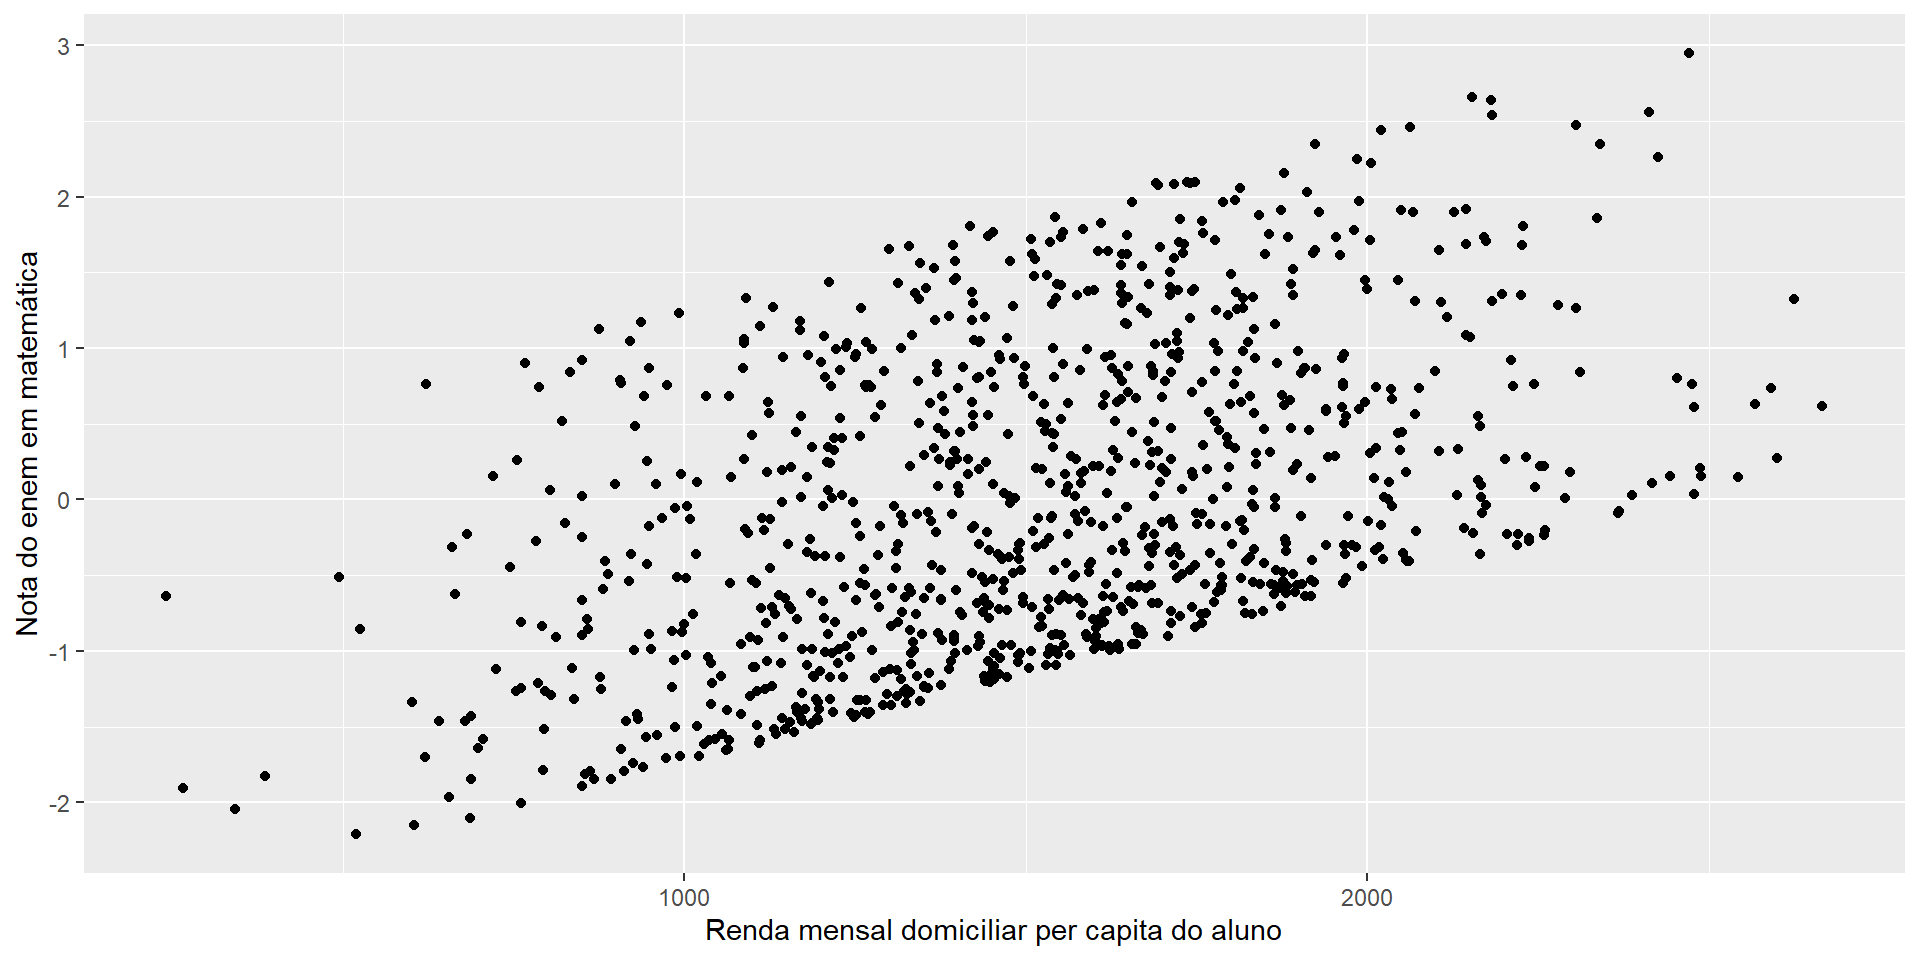
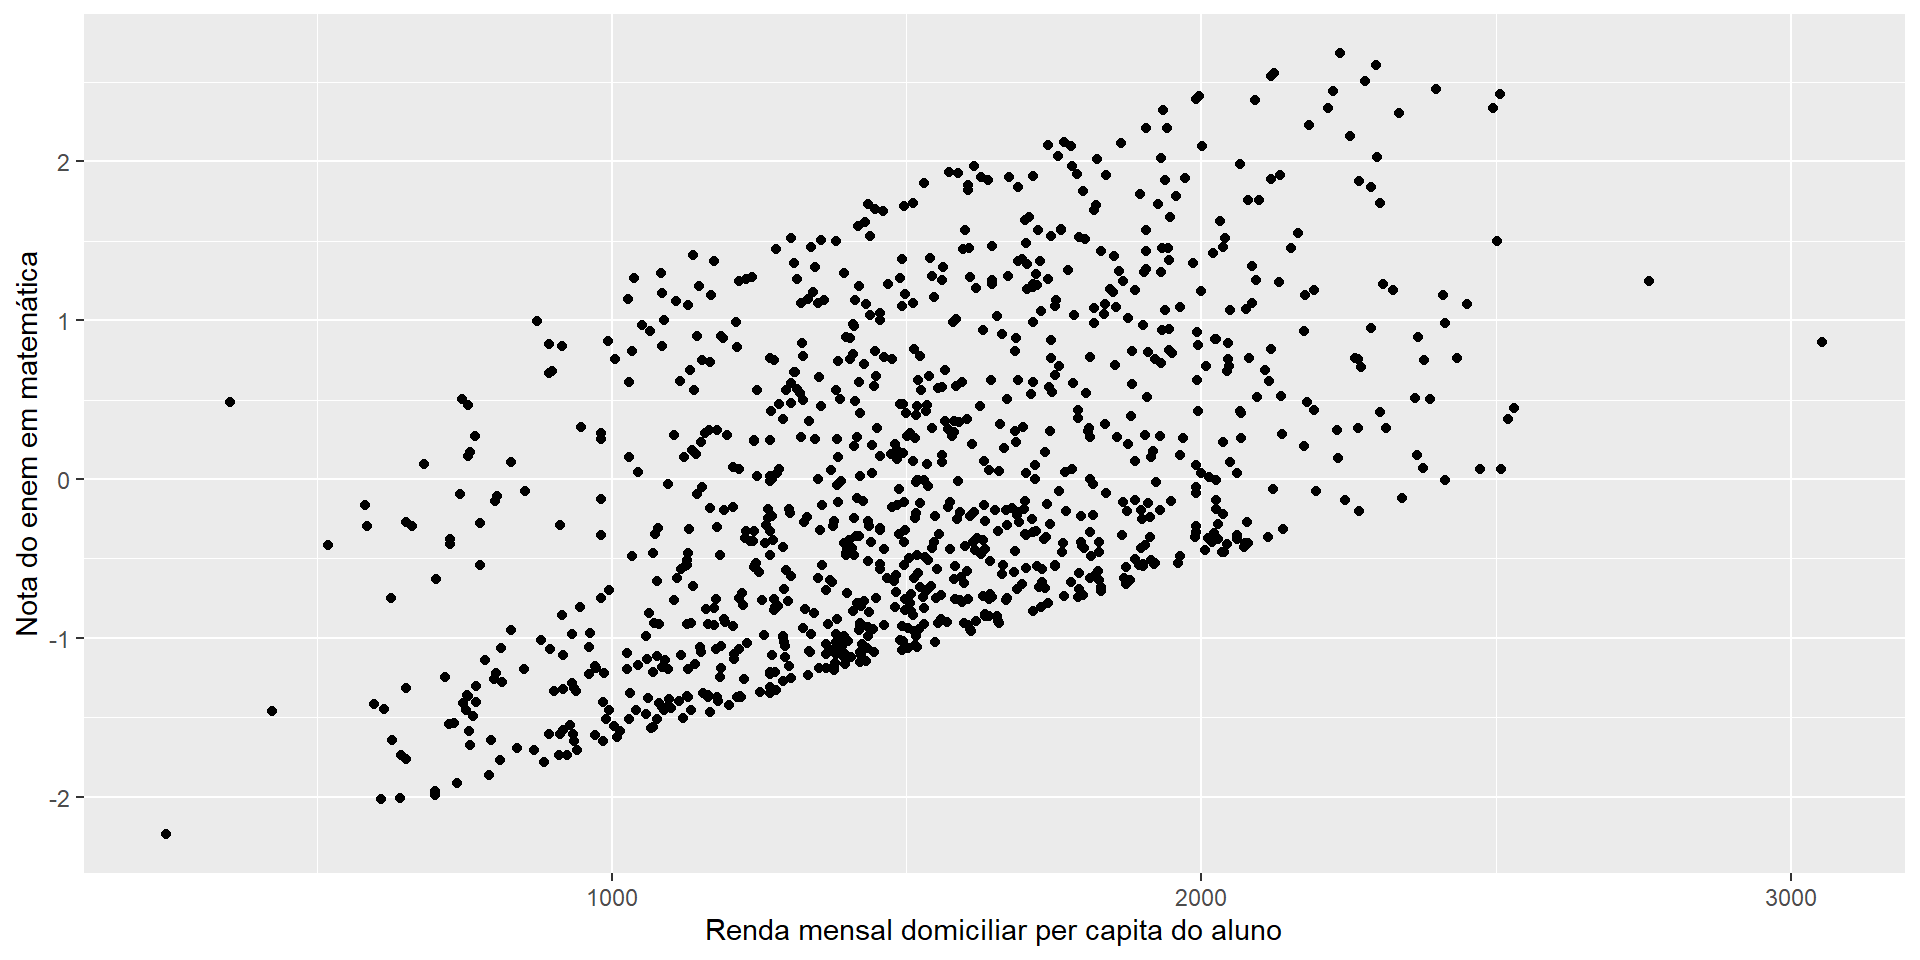
day 1 - intuition of modeling

diff --git a/dia 1/slide/1.fundamentos.html b/dia 1/slide/1.fundamentos.html
@@ -510,13 +510,13 @@ Thiago Cordeiro Almeida
     Pearson's product-moment correlation
 
 data:  renda and enem_mat
-t = 16.353, df = 998, p-value &lt; 2.2e-16
+t = 18.997, df = 998, p-value &lt; 2.2e-16
 alternative hypothesis: true correlation is not equal to 0
 95 percent confidence interval:
- 0.4093881 0.5072509
+ 0.4683139 0.5594647
 sample estimates:
-     cor 
-0.459714 </code></pre>
+      cor 
+0.5153454 </code></pre>
 </div>
 </div>
 <p>Qual a conclusão que teríamos?</p>
@@ -559,6 +559,54 @@ sample estimates:
 <li><p>Fenômenos sociais estão intrínsecamente relacionados entre eles, sendo necessário abordagens mais complexas para endereçar a causalidade (e até mesmo a associação).</p></li>
 </ul>
 </div></div>
+</section></section><section><section id="modelagem-de-fenômenos-sociais" class="title-slide slide level1 theme-first center"><h1>Modelagem de fenômenos sociais</h1>
+<p>Intuição</p>
+</section><section id="o-que-é-e-por-que-modelar" class="slide level2 theme-subtopic smaller"><h2>O que é e por que modelar?</h2>
+<p><img data-src="images/models-augmented-reality.png" class="absolute" style="bottom: 20px; right: 5px; width: 300px; height: 300px; "> A modelagem estatística é um exercício de estabelecimento da relação entre diferentes fenômenos, neste caso sociais.</p>
+<p>Isso parte do pressuposto de que <em>conhecemos</em> a <em>verdadeira</em> <strong>fórmula/lei</strong> que rege a relação entre os fenômenos estabelecidos. Elas podem ser:</p>
+<ul>
+<li><p>Lineares;</p></li>
+<li><p>Quadráticas;</p></li>
+<li><p>Logarítmicas;</p></li>
+<li><p>Exponenciais; …</p></li>
+</ul>
+<h4 id="todos-os-modelos-estão-errados-mas-alguns-são-úteis-george-e.-p.-box">“Todos os modelos estão errados, mas alguns são úteis” George E. P. Box</h4>
+</section><section id="o-que-é-e-por-que-modelar-1" class="slide level2 theme-subtopic smaller"><h2>O que é e por que modelar?</h2>
+<p>A partir da realidade em que conhecemos, formulamos uma relação matemática que nos permita avaliar e, <em>se assegurados alguns pressupostos</em>, generalizar as relações estabelecidas em uma pequena <strong>amostra</strong> da realidade para toda a <strong>população</strong> a que nossos dados são representativos.</p>
+<p>Para isso, precisamos:</p>
+<ol type="1">
+<li><p>Saber o motivo pelo qual estamos modelando: qual a motivação?</p></li>
+<li><p>Estabelecer a relação entre os fenômenos a serem modelados: qual tipo de relação eles têm?</p></li>
+<li><p>Explorar e descrever a relação entre eles: análise exploratória dos dados!</p></li>
+<li><p>Construir o modelo para a população a que queremos generalizar</p></li>
+<li><p>Implementar o modelo populacionar para a amostra da população que temos acesso</p></li>
+<li><p>Avaliar a validade do nosso modelo</p></li>
+<li><p>Estabelecer as conclusões possíveis com nossos modelos</p></li>
+</ol></section><section id="motivações-para-se-modelar-fenômenos-sociais" class="slide level2 theme-subtopic smaller font-size-smallest"><h2>Motivações para se modelar fenômenos sociais</h2>
+<p>Pode-se estar interessado em predizer tendências futuras para determinado fenômeno sociais de interesse ou compreender em que medida um fenômeno afeta outro.</p>
+<div class="columns">
+<div class="column" style="width:50%;">
+<h3 style="text-align: center;" id="predição">Predição</h3>
+<p>Sabendo-se quais são os determinantes de um determinado fenômeno social <span class="math inline">\(Y\)</span>, pode-se predizer o comportamento futuro <span class="math inline">\(\hat{Y}\)</span> com base nas mudanças que ocorrerão em seus determinantes.</p>
+<ul>
+<li><p>São chamados de modelos preditivos.</p></li>
+<li><p>Muito utilizados, atualmente, em modelos de aprendizado de máquina (<em>machine learning</em>)<sup>1</sup>.</p></li>
+</ul>
+</div><div class="column" style="width:50%;">
+<h3 style="text-align: center;" id="relação-entre-fenômenos">Relação entre fenômenos</h3>
+<p>Mais comuns em estudos de políticas públicas para desenho de programas sociais, em estudos acadêmicos ou em estudos de mercado, esses modelos buscam estabelcer a relação entre um fenômeno <span class="math inline">\(X_1\)</span> e o fenômeno de interesse <span class="math inline">\(Y\)</span> a partir do <em>controle</em> por outras variáveis que também podem afetar <span class="math inline">\(Y\)</span><sup>2</sup>.</p>
+</div></div>
+<aside><ol class="aside-footnotes"><li id="fn1"><p>Ver texto complementar na leitura da aula de hoje.</p></li><li id="fn2"><p>Ver texto do ENAP (2019) presente na leitura da aula de hoje.</p></li></ol></aside></section><section id="limites" class="slide level2 theme-subtopic smaller"><h2>Limites</h2>
+<p>Quais são os limites da modelagem de dados?</p>
+<p><img data-src="images/question.gif" class="absolute" style="bottom: 20px; right: 50px; width: 300px; height: 300px; "></p>
+</section><section id="limites-1" class="slide level2 theme-subtopic smaller"><h2>Limites</h2>
+<p>Quais são os limites da modelagem de dados?</p>
+<h4 id="dados-disponíveis">Dados disponíveis</h4>
+<p>Se não há dados ou os dados são ruins, a modelagem vai ser diretamente afetada por isso.</p>
+<h4 id="conhecimento-teórico-sobre-a-relação-entre-fenômenos">Conhecimento teórico sobre a relação entre fenômenos</h4>
+<p>Se não há um embasamento teórico ou empírico suficiente para estabelecer as relações entre os fenômenos, o modelo terá alcance limitado.</p>
+<h4 id="conhecimento-técnico-sobre-a-relação-entre-fenômenos">Conhecimento técnico sobre a relação entre fenômenos</h4>
+<p>Mesmo havendo conhecimento teórico suficiente, em muitos casos, o conhecimento técnico dos modelos que conhecemos não permitem que testemos certas hipóteses.</p>
 
 
 </section></section>
